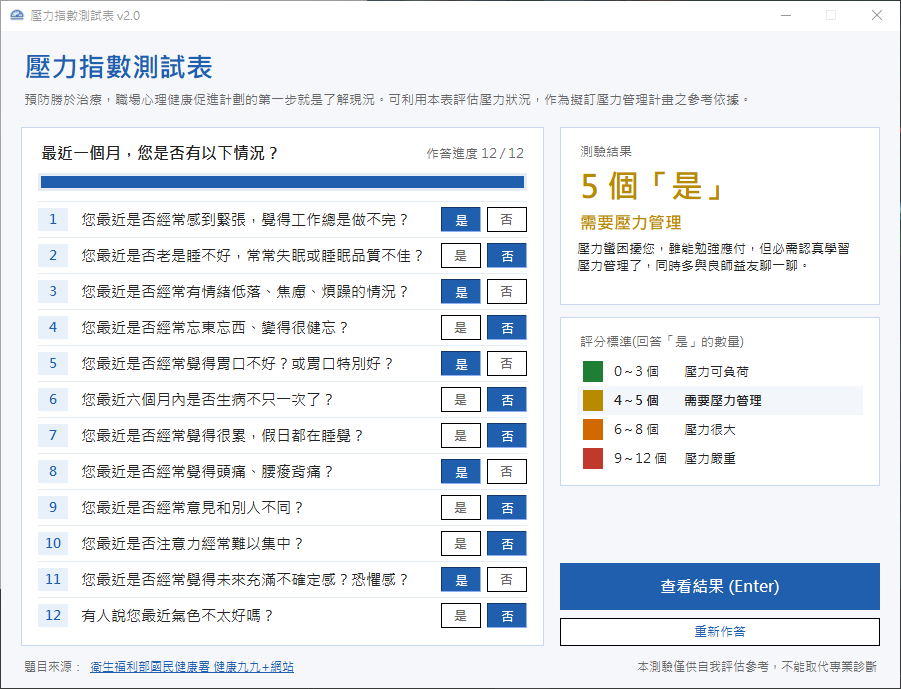
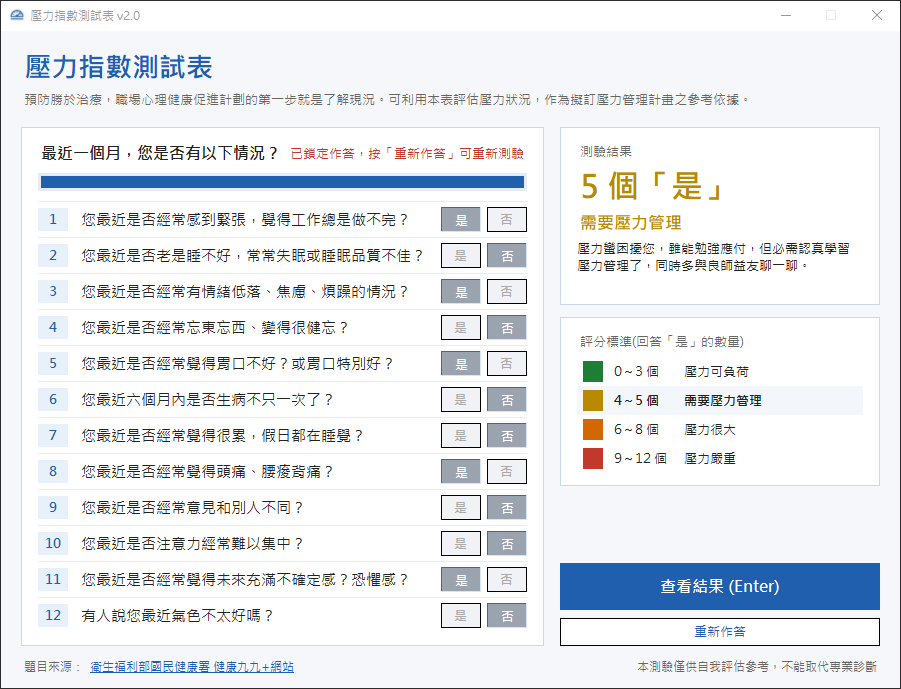
feat: 查看結果後鎖定作答，按「重新作答」才解除
- 全部作答並查看結果後，「是／否」按鈕改為灰色且無法點選，避免改了答案卻看到舊結果
- 鎖定時進度文字改為提示「已鎖定作答，按「重新作答」可重新測驗」
- 「重新作答」清除作答並恢復按鈕顏色與進度顯示
- README 補上鎖定作答的功能說明與常見問題，更新介面截圖

diff --git a/stress_gui.py b/stress_gui.py
@@ -30,6 +30,9 @@ CARD_BORDER = "#C9D8EC"
 ROW_LINE = "#E6ECF3"
 NUMBER_BG = "#E8F0FA"
 HIGHLIGHT_BG = "#F3F7FC"
+LOCKED_FG = "#AAAAAA"
+LOCKED_BG = "#F0F2F5"
+LOCKED_SELECT = "#9AA3AE"  # 鎖定時已選按鈕的底色
 
 LEVEL_COLORS = ["#1E7E34", "#B88A00", "#D26900", "#C0392B"]  # 對應 LEVELS
 
@@ -59,6 +62,7 @@ class StressApp:
         self.root = root
         self.answers = []  # 每題的作答變數
         self.rows = []  # 每題的(題號標籤, 是按鈕, 否按鈕)
+        self.locked = False  # 已查看結果，鎖定作答
 
         root.title(APP_TITLE)
         try:
@@ -225,21 +229,34 @@ class StressApp:
         values = [answer.get() for answer in self.answers]
         return [None if value == NONE else value == YES for value in values]
 
-    # 更新按鈕顏色與作答進度
+    # 更新按鈕顏色、鎖定狀態與作答進度
     def _on_answer(self):
+        if self.locked:
+            style = dict(state=tk.DISABLED, cursor="arrow", bg=LOCKED_BG,
+                         selectcolor=LOCKED_SELECT)
+        else:
+            style = dict(state=tk.NORMAL, cursor="hand2", bg=CARD_BG,
+                         selectcolor=PRIMARY)
         for answer, row in zip(self.answers, self.rows):
             number, yes_button, no_button = row
             value = answer.get()
-            yes_button.config(fg="white" if value == YES else MUTED)
-            no_button.config(fg="white" if value == NO else MUTED)
+            for button, button_value in ((yes_button, YES), (no_button, NO)):
+                fg = "white" if value == button_value else MUTED
+                button.config(fg=fg, disabledforeground=(
+                    fg if fg == "white" else LOCKED_FG), **style)
             if value != NONE:
                 number.config(bg=NUMBER_BG, fg=PRIMARY)
 
         done = len(QUESTIONS) - len(unanswered(self.current_answers()))
-        self.progress_label.config(text=f"作答進度 {done} / {len(QUESTIONS)}")
+        if self.locked:
+            self.progress_label.config(text="已鎖定作答，按「重新作答」可重新測驗",
+                                       fg=ERROR)
+        else:
+            self.progress_label.config(
+                text=f"作答進度 {done} / {len(QUESTIONS)}", fg=MUTED)
         self.progress_bar.config(value=done)
 
-    # 計算並顯示結果
+    # 計算並顯示結果，全部作答後鎖定作答
     def submit(self):
         answers = self.current_answers()
         try:
@@ -248,6 +265,8 @@ class StressApp:
             self._show_error(str(error), unanswered(answers))
         else:
             self._show_result(result)
+            self.locked = True
+            self._on_answer()
 
     # 顯示測驗結果並標示等級
     def _show_result(self, result):
@@ -276,8 +295,9 @@ class StressApp:
                 label.config(bg=bg, font=(FONT, 10,
                                           "bold" if selected else "normal"))
 
-    # 清除作答與結果
+    # 清除作答與結果並解除鎖定
     def reset(self):
+        self.locked = False
         for answer, (number, _, _) in zip(self.answers, self.rows):
             answer.set(NONE)
             number.config(bg=NUMBER_BG, fg=PRIMARY)

diff --git a/README.md b/README.md
@@ -14,7 +14,7 @@
 - 按「查看結果」後，右側顯示「是」的數量、壓力等級與建議，並依等級以**綠、黃、橘、紅**標色
 - 評分標準中**標示所屬等級**，一眼看出落在哪個區間
 - 有題目未作答時，**紅色標示未答題號**並列出是第幾題
-- 「重新作答」一鍵清除所有作答
+- 查看結果後**鎖定作答**，避免改了答案卻看到舊結果；按「重新作答」清除所有作答並解除鎖定
 - 只用 Python 內建的 tkinter，**不需安裝任何套件**就能執行
 
 ---
@@ -84,7 +84,7 @@ pyinstaller -F -w -n 壓力指數測試表 --icon images/icon.ico --add-data "im
 
 1. 開啟程式，逐題點選「**是**」或「**否**」，上方進度條顯示已答題數
 2. 全部作答後，按「**查看結果**」或直接按 Enter
-3. 右側顯示「是」的數量、壓力等級與建議，下方評分標準會標示所屬等級
+3. 右側顯示「是」的數量、壓力等級與建議，下方評分標準會標示所屬等級，此時作答按鈕會鎖定
 4. 想重新測驗時按「**重新作答**」
 
 > 本測驗僅供自我評估參考，不能取代專業診斷，如有身心不適請洽專業醫療人員。
@@ -108,6 +108,9 @@ pyinstaller -F -w -n 壓力指數測試表 --icon images/icon.ico --add-data "im
 
 **Q：按「查看結果」出現「尚未完成」？**
 還有題目沒作答，左側紅色題號就是未答的題目，作答後再按一次即可。
+
+**Q：查看結果後，「是／否」按鈕點不動？**
+查看結果後會鎖定作答，按「重新作答」即可重新測驗。
 
 **Q：執行時出現 `No module named tkinter`？**
 部分精簡版 Python 未附 tkinter，請改用 Anaconda 或從 python.org 下載的官方安裝版。
